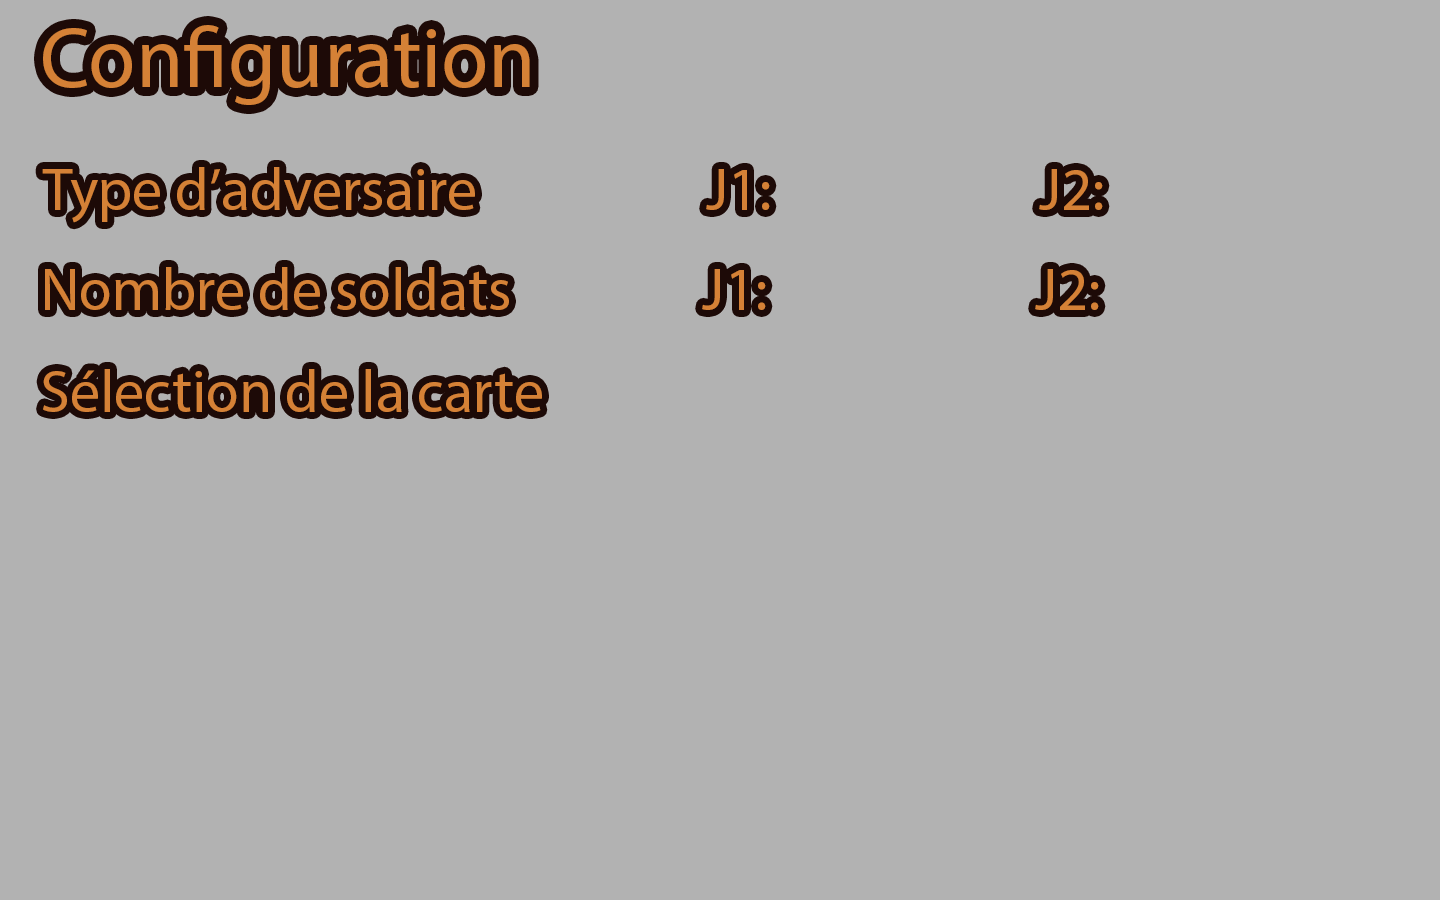
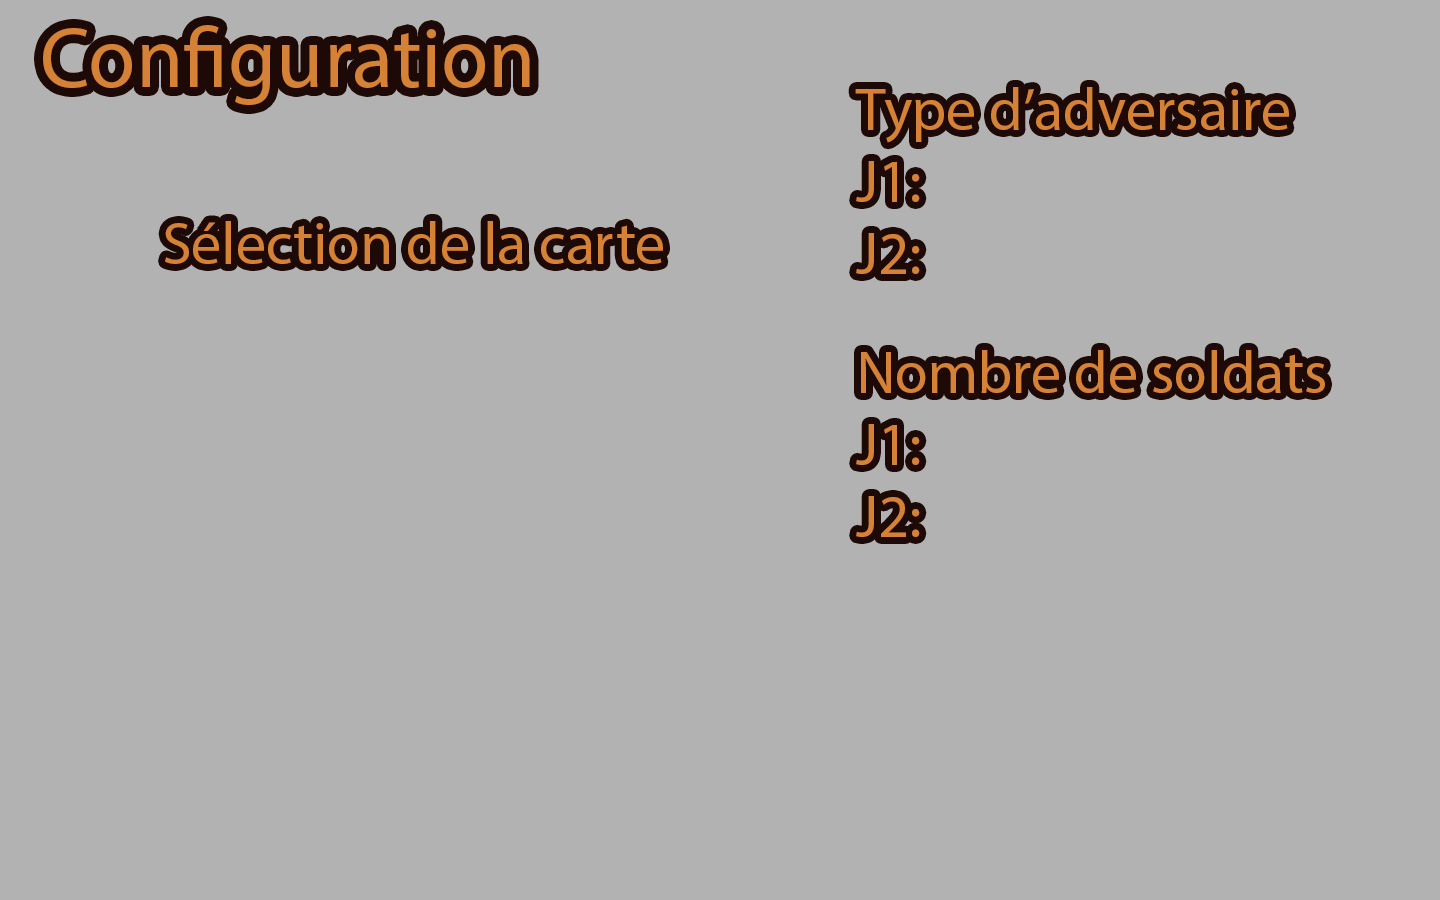
Modification visuel seulement du menu Configuration... les lments sont a droites nico et slection carte a gauche prend un peu plus que la moiti de lecran

diff --git a/BBTA/BBTA/Classe/Menus/MenuConfiguration.cs b/BBTA/BBTA/Classe/Menus/MenuConfiguration.cs
@@ -46,16 +46,16 @@ namespace BBTA.Classe.Menus
             btnConfirmer.Clic += new EventHandler(btnConfirmer_Clic);
 
             //Boutons Incré/Déccré
-            btnBasJ1 = new Bouton(Game.Content.Load<Texture2D>(@"Ressources\Menus\Configuration\btnBas"), new Vector2(810, 293), null);
+            btnBasJ1 = new Bouton(Game.Content.Load<Texture2D>(@"Ressources\Menus\Configuration\btnBas"), new Vector2(960, 448), null);
             btnBasJ1.Clic += new EventHandler(btnBasJ1_Clic);
 
-            btnHautJ1 = new Bouton(Game.Content.Load<Texture2D>(@"Ressources\Menus\Configuration\btnHaut"), new Vector2(950, 293), null);
+            btnHautJ1 = new Bouton(Game.Content.Load<Texture2D>(@"Ressources\Menus\Configuration\btnHaut"), new Vector2(1100, 448), null);
             btnHautJ1.Clic += new EventHandler(btnHautJ1_Clic);
 
-            btnBasJ2 = new Bouton(Game.Content.Load<Texture2D>(@"Ressources\Menus\Configuration\btnBas"), new Vector2(1145, 293), null);
+            btnBasJ2 = new Bouton(Game.Content.Load<Texture2D>(@"Ressources\Menus\Configuration\btnBas"), new Vector2(960, 518), null);
             btnBasJ2.Clic += new EventHandler(btnBasJ2_Clic);
 
-            btnHautJ2 = new Bouton(Game.Content.Load<Texture2D>(@"Ressources\Menus\Configuration\btnHaut"), new Vector2(1285, 293), null);
+            btnHautJ2 = new Bouton(Game.Content.Load<Texture2D>(@"Ressources\Menus\Configuration\btnHaut"), new Vector2(1100, 518), null);
             btnHautJ2.Clic += new EventHandler(btnHautJ2_Clic);
 
             police = Game.Content.Load<SpriteFont>(@"PoliceIndicateur");
@@ -133,11 +133,11 @@ namespace BBTA.Classe.Menus
 
             btnBasJ1.Draw(spriteBatch);
             btnHautJ1.Draw(spriteBatch);
-            spriteBatch.DrawString(police, nbSoldatsJ1.ToString(), new Vector2(862, 258), Color.White, 0, Vector2.Zero, 2, SpriteEffects.None, 0);
+            spriteBatch.DrawString(police, nbSoldatsJ1.ToString(), new Vector2(1010, 407), Color.White, 0, Vector2.Zero, 2, SpriteEffects.None, 0);
 
             btnBasJ2.Draw(spriteBatch);
             btnHautJ2.Draw(spriteBatch);
-            spriteBatch.DrawString(police, nbSoldatsJ2.ToString(), new Vector2(1197, 258), Color.White, 0, Vector2.Zero, 2, SpriteEffects.None, 0);
+            spriteBatch.DrawString(police, nbSoldatsJ2.ToString(), new Vector2(1010, 483), Color.White, 0, Vector2.Zero, 2, SpriteEffects.None, 0);
 
             spriteBatch.End();
         }
